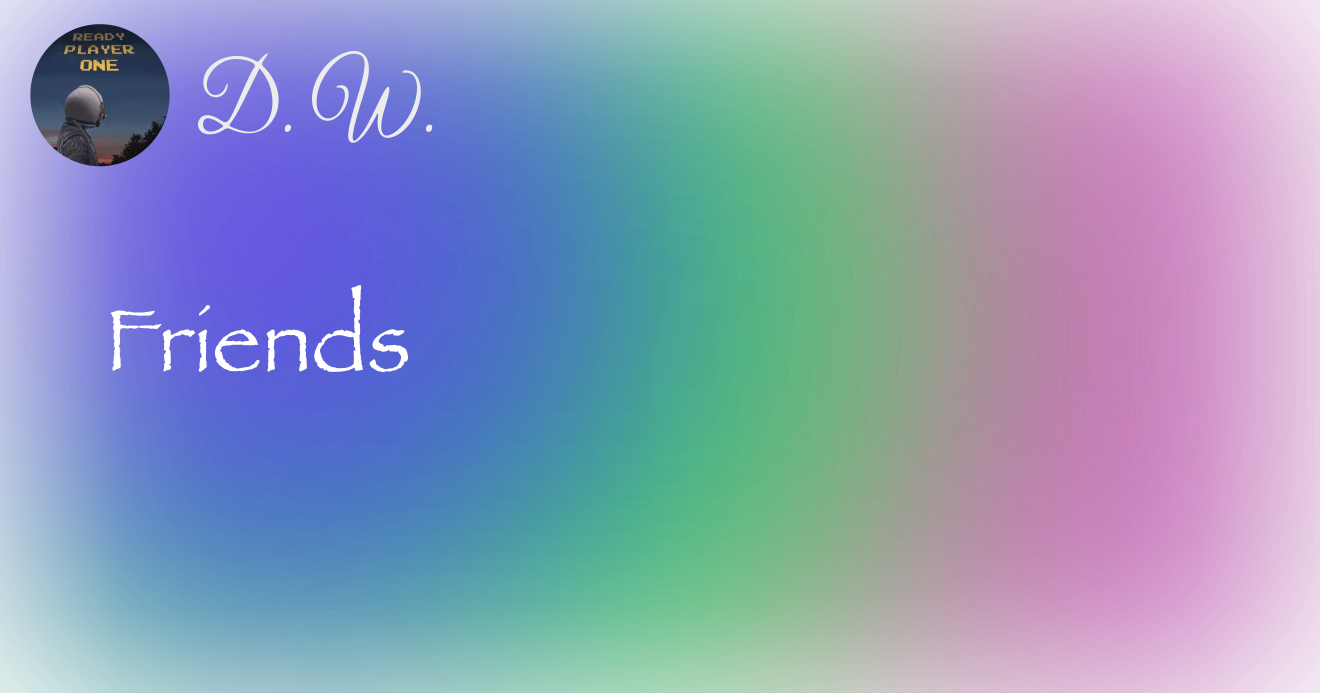
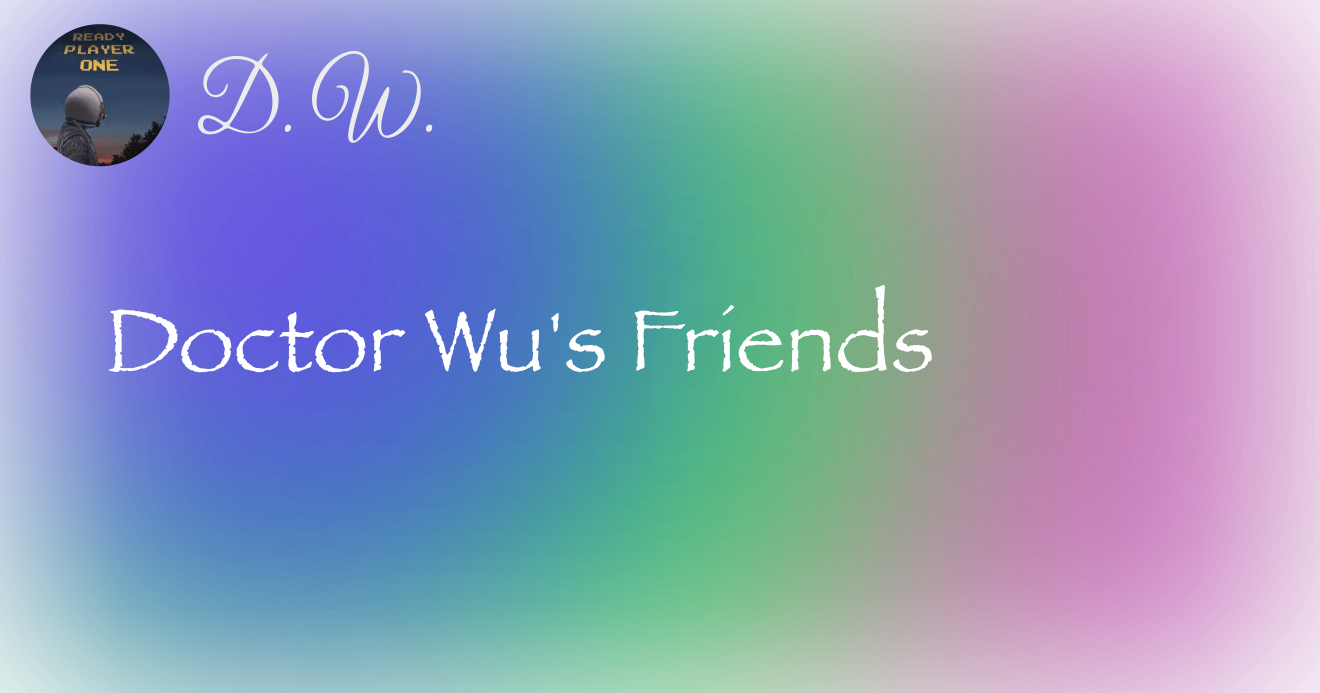
feat(friends): add friends

Changed region(s): [[0.0932, 0.4242, 0.7144, 0.5455], [0.0621, 0.4848, 0.0932, 0.5152]]

diff --git a/src/components/FriendsList.vue b/src/components/FriendsList.vue
@@ -12,6 +12,7 @@ defineProps<{
 
 const {
   greater,
+  smaller,
 } = useBreakpoints(breakpointsTailwind)
 </script>
 
@@ -25,18 +26,36 @@ const {
     class="wrapper grid grid-cols-1 gap-5xl mt-12" :class="[
       greater('lg').value ? 'grid-cols-2' : '',
       greater('xl').value ? 'grid-cols-3' : '',
-      greater('2xl').value ? 'mx-50' : '',
+      greater('2xl').value ? 'mx-60' : '',
+      smaller('md').value ? '!gap-3xl' : '',
     ]"
   >
     <template v-for="friend in friends" :key="friend.name">
       <a
-        flex="~ justify-start items-center gap-4" class="overflow-hidden rounded-3 border h-50" :href="friend.link"
-        target="_blank"
+        flex="~ justify-start items-center gap-4"
+        class="overflow-hidden rounded-4 border border-[#8888] cursor-pointer h-50 transition-all" :class="[
+          smaller('md').value ? '!h-35' : '',
+        ]" hover="border-[#888]" :href="friend.link" target="_blank"
       >
-        <img :src="friend.avatarLink" alt="friend.name" class="h-full object-cover">
-        <section class=" px-4 py-6 h-full" flex="~ col gap-2">
-          <span font-700 text-2xl>{{ friend.name }}</span>
-          <span v-html="friend.slogan" />
+        <section
+          class="h-full w-50 overflow-hidden" :class="[
+            smaller('md').value ? '!w-30vw' : '',
+          ]"
+        >
+          <img
+            :src="friend.avatarLink" alt="friend.name" class="h-full object-cover transition-all transition-duration-300" :class="[
+              smaller('md').value ? 'h-auto !w-30vw' : '',
+            ]"
+            hover="scale-[1.15]"
+          >
+        </section>
+        <section
+          class="px-4 py-6 h-full" flex="~ 1 col gap-2" :class="[
+            smaller('md').value ? '!pl-0 !pr-2 !py-2' : '',
+          ]"
+        >
+          <span font-700 text-lg md:text-2xl>{{ friend.name }}</span>
+          <span text-sm md:text-lg text-gray-600 dark:text-gray-400 v-html="friend.slogan" />
         </section>
       </a>
     </template>

diff --git a/src/components/NavBar.vue b/src/components/NavBar.vue
@@ -37,8 +37,8 @@ const { y: scroll } = useWindowScroll()
         <RouterLink to="/sponsors-list" title="Sponsors">
           <div i-ri-user-heart-line />
         </RouterLink>
-        <RouterLink to="/friends" title="Friends">
-          <div i-bi:people />
+        <RouterLink hidden md:inline-block to="/friends" title="Friends">
+          <div i-bi:people class="text-4.5 vertical--19%" />
         </RouterLink>
         <a href="https://twitter.com/Doctorwu666" target="_blank" title="Twitter">
           <div i-ri-twitter-x-fill />

diff --git a/components.d.ts b/components.d.ts
@@ -9,7 +9,6 @@ declare module 'vue' {
   export interface GlobalComponents {
     FantasyLand: typeof import('./src/components/FantasyLand.vue')['default']
     Footer: typeof import('./src/components/Footer.vue')['default']
-    Friends: typeof import('./src/components/Friends.vue')['default']
     FriendsList: typeof import('./src/components/FriendsList.vue')['default']
     Logo: typeof import('./src/components/Logo.vue')['default']
     NavBar: typeof import('./src/components/NavBar.vue')['default']

diff --git a/src/components/FantasyLand.vue b/src/components/FantasyLand.vue
@@ -5,8 +5,8 @@ const isDark = useDark()
 const {
   isSmaller,
 } = useBreakpoints(breakpointsTailwind)
-const opacity = computed(() => (isDark.value ? 0.45 : 0.52) + (isSmaller('md') ? 0.1 : 0))
-const blur = computed(() => isSmaller('md') ? 'blur(100px)' : 'blur(160px)')
+const opacity = computed(() => (isDark.value ? 0.34 : 0.52) + (isSmaller('md') ? 0.1 : 0))
+const blur = computed(() => `blur(${(isSmaller('md') ? 100 : 160) + (isDark ? 50 : 0)}px)`)
 </script>
 
 <template>

diff --git a/pages/friends.md b/pages/friends.md
@@ -1,5 +1,5 @@
 ---
-title: Doctor Wu's Friend
+title: Doctor Wu's Friends
 display: ''
 description: Friends of Doctor Wu
 ---
@@ -37,6 +37,84 @@ description: Friends of Doctor Wu
       link: 'https://yinji.org/',
       slogan: '君子可内敛不可懦弱，面不公可起而论之',
       avatarLink: 'https://github.com/huhexian.png',
+    },
+    {
+      name: 'Innei',
+      link: 'https://innei.in/',
+      slogan: 'An independent developer coding with love.',
+      avatarLink: 'https://github.com/Innei.png',
+    },
+    {
+      name: 'gq',
+      link: 'https://zgq.ink/about',
+      slogan: '独处自洽，简单随和，接纳自己，也爱这个世界',
+      avatarLink: 'https://github.com/zgq354.png',
+    },
+    {
+      name: 'Riri',
+      link: 'https://daydreamer-riri.me/',
+      slogan: 'Stay gold, pony boy',
+      avatarLink: 'https://github.com/Daydreamer-riri.png',
+    },
+    {
+      name: 'qer',
+      link: 'https://www.qer.im/',
+      slogan: '不要急，慢慢来，最重要是快',
+      avatarLink: 'https://github.com/wbxl2000.png',
+    },
+    {
+      name: 'panzhixiang',
+      link: 'https://panzhuxiang.cn',
+      slogan: '读书，生活，工作',
+      avatarLink: 'https://panzhixiang.cn/images/avatar.jpg',
+    },
+    {
+      name: '张晋涛',
+      link: 'https://moelove.info/',
+      slogan: '主要分享云原生知识',
+      avatarLink: 'https://github.com/tao12345666333.png'
+    },
+    {
+      name: 'mingxia',
+      link: 'https://zhij.in/',
+      slogan: '小人物，大梦想',
+      avatarLink: 'https://github.com/mingxia.png'
+    },
+    {
+      name: 'DanielJia',
+      link: 'https://danieljia.com/',
+      slogan: '在瑞典工作生活的全栈工程师',
+      avatarLink: 'https://github.com/no13bus.png'
+    },
+    {
+      name: '但为君故',
+      link: 'https://blog.terminals.run/',
+      slogan: '伤心秦汉经行处，宫阙万间皆作土',
+      avatarLink: 'https://github.com/prinOrange.png'
+    },
+    {
+      name: '夜游船',
+      link: 'https://www.yeyouchuan.me/',
+      slogan: '全都沾一点的学习者，努力做自己想做的事',
+      avatarLink: 'https://github.com/yeyouchuan.png'
+    },
+    {
+      name: 'Rene Wang',
+      link: 'https://rene.wang/en-US',
+      slogan: 'Creating amazing stuff, with or without codes.',
+      avatarLink: 'https://github.com/RiverTwilight.png'
+    },
+    {
+      name: '天书',
+      link: 'https://tianshu.xyz/blog/',
+      slogan: '有趣且有用的活着',
+      avatarLink: 'https://github.com/zdilby.png'
+    },
+    {
+      name: '东评西就',
+      link: 'https://dongjunke.cn/',
+      slogan: '关注社交媒体运营、科技互联网',
+      avatarLink: 'https://dongjunke.cn/img/avatar.png'
     },
     ]"
  />
